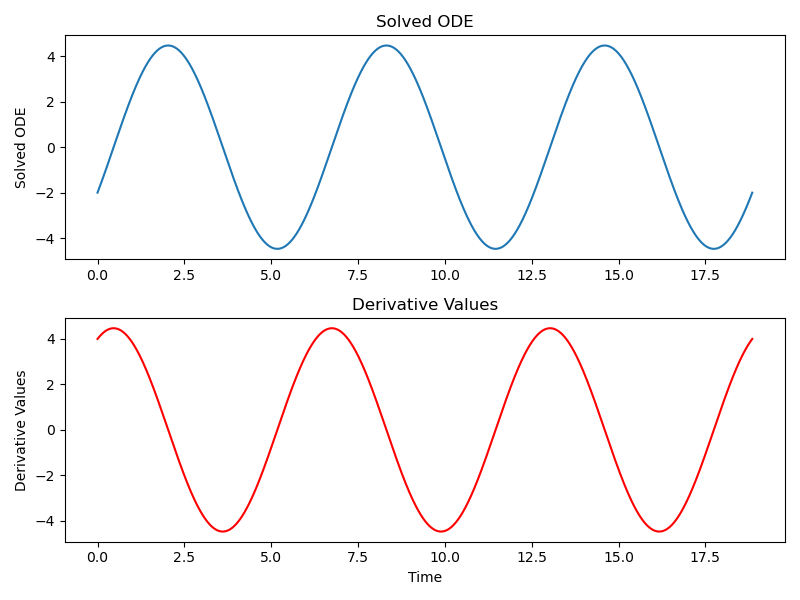
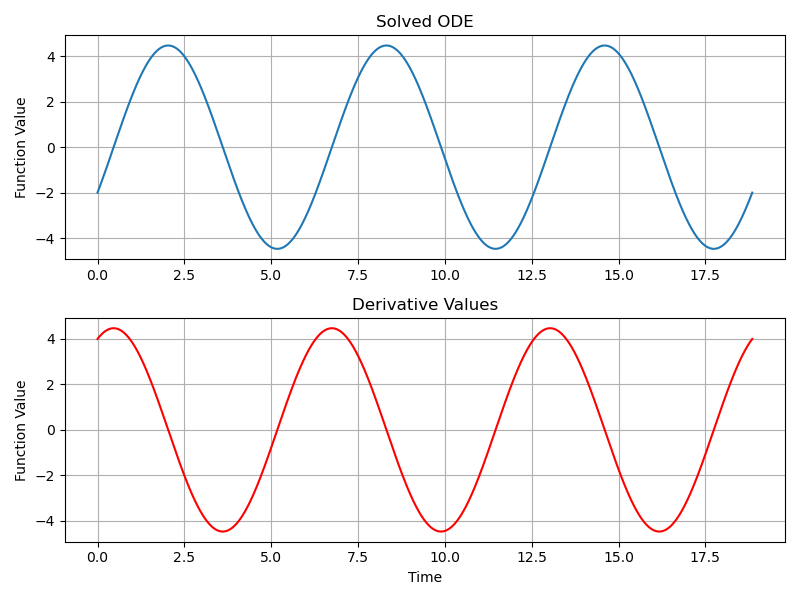
finish all

Changed region(s): [[0.0, 0.63, 0.0312, 0.81], [0.0, 0.15, 0.0312, 0.33]]

diff --git a/project_code/experiments.py b/project_code/experiments.py
@@ -7,8 +7,8 @@ import matplotlib.pyplot as plt
 from ODE_solvers import *
 from fit_function_gen import *
 
-
-def experiment1(t_eval, dt):
+# Solving an ODE for a pre-defined function
+def experiment1(t_eval):
     
     # Experiment 1: Check the forward pass first
     # Function to test (we want to find the derivative of that function)
@@ -17,7 +17,7 @@ def experiment1(t_eval, dt):
     y_init = torch.tensor([-2]) # We're solving an IVP, so we know the first initial value
     # Solve the ODE
     solver = ODESolver(func_test)
-    solved_ODE = solver(y_init, t = t_eval, dt = dt)
+    solved_ODE = solver(y_init, t = t_eval)
     # Plot
     
     
@@ -34,17 +34,93 @@ def experiment1(t_eval, dt):
 
     # Add labels and adjust layout
     plt.xlabel('Time')
-    axs[0].set_ylabel('Solved ODE')
-    axs[1].set_ylabel('Derivative Values')
+    axs[0].set_ylabel('Function Value')
+    axs[1].set_ylabel('Function Value')
     plt.tight_layout()
-
+    axs[0].grid()
+    axs[1].grid()
+    
     # Show the plot
     plt.savefig(fname="exp1.png", format="png")
     plt.close()
-    expected = -2 * torch.cos(t_eval) + 4 * torch.sin(t_eval)
+    return
 
-    print(torch.mean(torch.abs(solved_ODE - expected)))
+# Training a NeuralODE using backprop
+def experiment2(dev_used, ODEFunc, in_dim, num_epochs, lr, batch_size, num_points):
+    # Generate training data (a spiral)
+    true_y0 = torch.tensor([[2.0, 0.0]]).to(dev_used)    # Starting point of the path
+    t_new = np.linspace(0., 40., num_points)             # Times at which to evaluate the path
+    matrix_spiral = torch.tensor([[-0.1, 5.0], [-5.0, -3.0]]).to(dev_used) # Matrix describing the spiral
+    loss_ls = []                                         # Stores losses at each iteration
 
+    # To create the spiral matrix the ODE is described by matmul of y**3 and the matrix describing the spiral
+    def true_func(t, y):
+        return torch.mm(y ** 3, matrix_spiral)
+
+    # Create the ground truth matrix by solving the ODE for the spiral
+    with torch.no_grad():
+        solver = ODESolver(true_func)
+        true_y = solver(true_y0, t_new)
+
+    # Plot for the original spiral data (ground truth)
+    plt.plot(true_y[:, 0].cpu(), true_y[:, 1].cpu())
+    plt.title('Original Spiral')
+    plt.grid()
+    plt.savefig('orig_spiral.png')
+    plt.close()
+
+    # Training
+    # Vars for plotting at specific times
+    show_epochs = [1, 10, 50, 500]
+    epoch_iter = 0
+    # Training objects
+    ode_func = ODEFunc(in_dim).to(dev_used)    # Neural net (the f)
+    solver = ODESolver(ode_func).to(dev_used)  # ODE solver object
+    optimizer = optim.RMSprop(solver.parameters(), lr = lr) # optimizer, use RMS prop
+    loss_fn = nn.MSELoss()                                  # loss, use MSE
+    
+    # Train for a number of epochs
+    for epoch in range(num_epochs):
+        # Plot at different rounds of training
+        if epoch in show_epochs:
+            # For the final prediction, predict for longer
+            if epoch_iter == 3:
+                t_new = np.linspace(0., 60., num_points) 
+            pred_y = solver(true_y0, t_new)
+            plt.plot(true_y[:, 0].cpu().detach().numpy(), true_y[:, 1].cpu().detach().numpy(), label = 'True Data')
+            plt.plot(pred_y[:, 0].cpu().detach().numpy(), pred_y[:, 1].cpu().detach().numpy(), label = 'Predicted Data')
+            plt.title(f'Predicted Spiral Data after {show_epochs[epoch_iter]} epochs of training')
+            plt.legend()
+            plt.grid()
+            plt.savefig(f'pred_spiral_{show_epochs[epoch_iter]}.png')
+            plt.close()
+            epoch_iter += 1
+            
+        # Reset the optimizer gradients to 0 befroe any backprop
+        optimizer.zero_grad()
+        # Get a batch of times and y values to test for
+        batch_t = list(sorted(t_new[np.random.choice(t_new.shape[0], size = batch_size, replace = False)]))
+        batch_y = true_y[batch_t]
+        # Get the predict for these times starting at the ground truth (since IVP, we always have y0)
+        pred_y = solver(true_y0, batch_t)
+        # Calculate the loss and backprop
+        loss = loss_fn(pred_y, batch_y)
+        loss.backward()
+        optimizer.step()
+        # For saving the loss
+        loss_ls.append(loss.cpu().item())
+        # Print losses once every epoch
+        if (epoch) % 10 == 0:
+            print(f"Epoch {epoch}/{num_epochs - 1}, Training Loss: {loss.item():.4f}")
+
+    # Plot the loss curve
+    plt.plot(np.arange(len(loss_ls)), loss_ls, label = 'loss')
+    plt.xlabel('Epochs')
+    plt.ylabel('Loss')
+    plt.grid()
+    plt.savefig('loss_spiral.png')
+    plt.close()
+    
 if __name__ == '__main__':
     t_min = 0.0
     t_max = 6 * np.pi

diff --git a/project_code/NeuralODE_simple.py b/project_code/NeuralODE_simple.py
@@ -1,6 +1,7 @@
 import torch 
 import torch.nn as nn
 import torch.optim as optim
+from torch.utils.data import DataLoader, TensorDataset
 import numpy as np
 import matplotlib.pyplot as plt 
 
@@ -8,13 +9,10 @@ from ODE_solvers import *
 from fit_function_gen import *
 from experiments import *
 
-torch.manual_seed(0)
-np.random.seed(0)
+# Use CPU for now, change to GPU later
+dev_used = torch.device('cpu')
 
-dev_used = torch.device('cuda' if torch.cuda.is_available() else 'cpu')
-
-# Define the ODE Function as an example MLP
-
+# Define the ODE Function as a neural net
 class ODEFunc(nn.Module):
     def __init__(self, in_dim, hidden_dim = 64):
         super(ODEFunc, self).__init__()
@@ -23,60 +21,33 @@ class ODEFunc(nn.Module):
         self.fc1 = nn.Linear(hidden_dim, in_dim)
 
     def forward(self, t, y):
-        dy_dt = self.fc1(self.tanh(self.fc0(y)))
+        dy_dt = self.fc1(self.tanh(self.fc0(y ** 3)))
         return dy_dt
 
-
-'''
-class ODEFunc(nn.Module):
-    def __init__(self, in_dim = 2):
-        super(ODEFunc, self).__init__()
-        self.fc0 = nn.Linear(in_dim, in_dim, bias = True)
-    
-    def forward(self, t, x):
-        y = self.fc0(x)
-        return y
-'''
-# Hyperparameters
-in_dim = 2  # MNIST image size (28x28)
-h = 128
-num_epochs = 1000 # 1000
-lr = 1e-2
-
-
-
+# Hyperparameters for the training
+in_dim = 2       # 2D data
+h = 192          # hidden dimension size
+batch_size = 500 # Batch size
+num_epochs = 501 # Total epochs of training
+lr = 1e-3        # Learning rate
 
 if __name__ == '__main__':
-    # Generate timing data
+    # Generate timing data (for our task we generate trajectories over time)
     t_min = 0.0
     t_max = 6 * np.pi
-    num_points = 2000
+    num_points = 2500
     t_eval = torch.linspace(t_min, t_max, num_points)
-    dt = np.abs(t_eval[0] - t_eval[1])
+
     # Experiment 1
-    experiment1(t_eval, dt)
+    # Test RK4 and ODE solver implementations
+    experiment1(t_eval)
     
     # Experiment 2
-    # Generate data
-    true_y0 = torch.tensor([[2.0, 0.0]])
-    t_new = torch.linspace(0., 50., num_points)
-    true_A = torch.tensor([[-0.1, 5.0], [-5.0, -2.0]])
+    # Train a NeuralODE using backprop through the ODESovler
+    # We use spirals similar to the paper
+    experiment2(dev_used, ODEFunc, in_dim, num_epochs, lr, batch_size, num_points)
     
-    class Lambda(nn.Module):
-        def forward(self, t, y):
-            return torch.mm(y ** 3, true_A)
-    
-    with torch.no_grad():
-        node = ODESolver(Lambda())
-        true_y = node(true_y0, t_new, dt)
-
-    plt.plot(true_y[:, 0], true_y[:, 1])
-    plt.show()
-    
-    # Training
-    ode_func = ODEFunc(in_dim)
-    solver = ODESolver(ode_func)
-    
+    # Adjoint methodcode, TODO: fix
     '''
     # Training loop
     # Create the model, solver, loss function, and optimizer

diff --git a/project_code/ODE_solvers.py b/project_code/ODE_solvers.py
@@ -31,7 +31,7 @@ class ODESolver(nn.Module):
         super(ODESolver, self).__init__()
         self.func = func
 
-    def forward(self, y_init, t, dt):
+    def forward(self, y_init, t):
         # For now use this for backward pass for augmented state
         if isinstance(y_init, tuple):
             # If y_init is a tuple, create a tuple of zero tensors for each element
@@ -52,6 +52,7 @@ class ODESolver(nn.Module):
             sol = []
             sol.append(y_init)
             for i in range(1, len(t)):
+                dt = t[i] - t[i - 1]
                 dy = rk4_step(self.func, y_init, t[i - 1], dt)
                 y_next = y_init + dy
                 sol.append(y_next)
